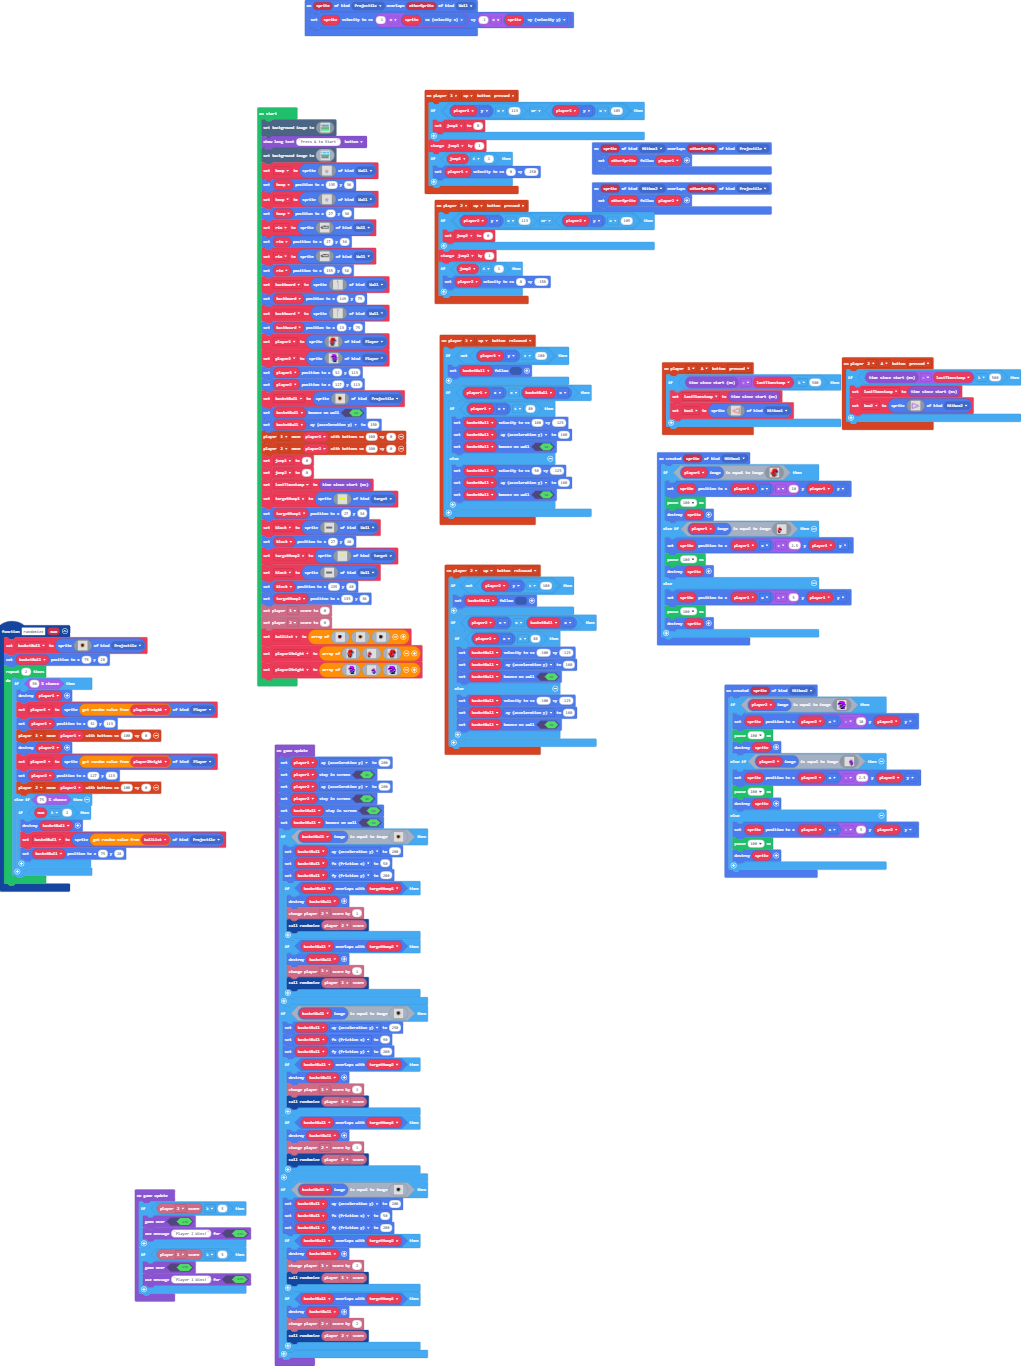
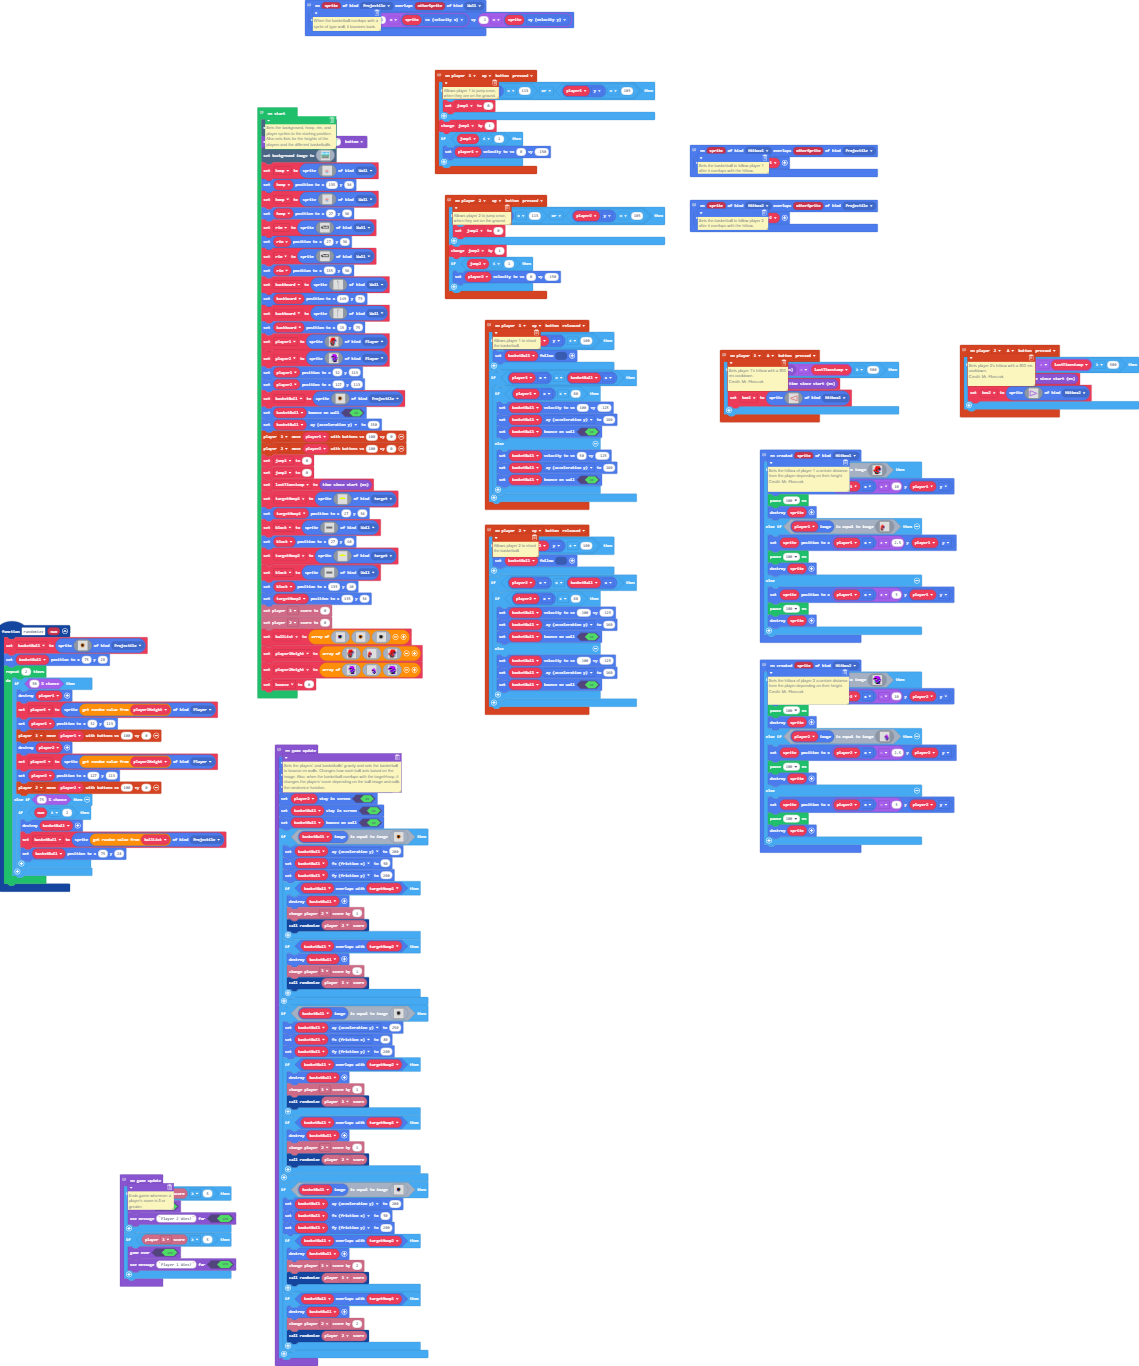
Update main.blocks, main.ts

Changed region(s): [[0.0, 0.0, 0.7894, 1.0], [0.6072, 0.246, 1.0, 0.6457]]

diff --git a/main.ts b/main.ts
@@ -4,6 +4,7 @@ namespace SpriteKind {
     export const Hitbox2 = SpriteKind.create()
     export const target = SpriteKind.create()
 }
+// Allows player 1 to jump once, when they are on the ground.
 controller.player1.onButtonEvent(ControllerButton.Up, ControllerButtonEvent.Pressed, function () {
     if (player1.y == 113 || player1.y == 105) {
         jump1 = 0
@@ -52,6 +53,7 @@ function randomize (num: number) {
         }
     }
 }
+// Allows player 1 to shoot the basketball.
 controller.player1.onButtonEvent(ControllerButton.Up, ControllerButtonEvent.Released, function () {
     if (!(player1.y > 100)) {
         basketBall.follow(null)
@@ -68,9 +70,12 @@ controller.player1.onButtonEvent(ControllerButton.Up, ControllerButtonEvent.Rele
         }
     }
 })
+// Sets the basketball to follow player 2 after it overlaps with the hitbox.
 sprites.onOverlap(SpriteKind.Hitbox2, SpriteKind.Projectile, function (sprite, otherSprite) {
     otherSprite.follow(player2)
 })
+// Sets player 2's hitbox with a 500 ms cooldown.
+// Credit: Mr. Florczak
 controller.player2.onButtonEvent(ControllerButton.A, ControllerButtonEvent.Pressed, function () {
     if (game.runtime() - lastTimestamp >= 500) {
         lastTimestamp = game.runtime()
@@ -94,6 +99,7 @@ controller.player2.onButtonEvent(ControllerButton.A, ControllerButtonEvent.Press
             `, SpriteKind.Hitbox2)
     }
 })
+// Allows player 2 to shoot the basketball.
 controller.player2.onButtonEvent(ControllerButton.Up, ControllerButtonEvent.Released, function () {
     if (!(player2.y > 100)) {
         basketBall.follow(null)
@@ -110,6 +116,7 @@ controller.player2.onButtonEvent(ControllerButton.Up, ControllerButtonEvent.Rele
         }
     }
 })
+// Allows player 2 to jump once, when they are on the ground.
 controller.player2.onButtonEvent(ControllerButton.Up, ControllerButtonEvent.Pressed, function () {
     if (player2.y == 113 || player2.y == 105) {
         jump2 = 0
@@ -119,9 +126,12 @@ controller.player2.onButtonEvent(ControllerButton.Up, ControllerButtonEvent.Pres
         player2.setVelocity(0, -150)
     }
 })
+// Sets the basketball to follow player 1 after it overlaps with the hitbox.
 sprites.onOverlap(SpriteKind.Hitbox1, SpriteKind.Projectile, function (sprite, otherSprite) {
     otherSprite.follow(player1)
 })
+// Sets player 1's hitbox with a 500 ms cooldown.
+// Credit: Mr. Florczak
 controller.player1.onButtonEvent(ControllerButton.A, ControllerButtonEvent.Pressed, function () {
     if (game.runtime() - lastTimestamp >= 500) {
         lastTimestamp = game.runtime()
@@ -145,9 +155,12 @@ controller.player1.onButtonEvent(ControllerButton.A, ControllerButtonEvent.Press
             `, SpriteKind.Hitbox1)
     }
 })
+// When the basketball overlaps with a sprite of type wall, it bounces back.
 sprites.onOverlap(SpriteKind.Projectile, SpriteKind.Wall, function (sprite, otherSprite) {
     sprite.setVelocity(-1 * sprite.vx, -1 * sprite.vy)
 })
+// Sets the hitbox of player 2 a certain distance  from the player depending on their height.
+// Credit: Mr. Florczak
 sprites.onCreated(SpriteKind.Hitbox2, function (sprite) {
     if (player2.image.equals(img`
         ........ccaaaaaaaaaaaaa.........
@@ -213,6 +226,8 @@ sprites.onCreated(SpriteKind.Hitbox2, function (sprite) {
         sprites.destroy(sprite)
     }
 })
+// Sets the hitbox of player 1 a certain distance  from the player depending on their height.
+// Credit: Mr. Florczak
 sprites.onCreated(SpriteKind.Hitbox1, function (sprite) {
     if (player1.image.equals(img`
         ............22222222222eee......
@@ -278,6 +293,7 @@ sprites.onCreated(SpriteKind.Hitbox1, function (sprite) {
         sprites.destroy(sprite)
     }
 })
+// Sets the background, hoop, rim, and player sprites to the starting position. Also sets lists for the heights of the players and the different basketballs.
 let box1: Sprite = null
 let box2: Sprite = null
 let player2Height: Image[] = []
@@ -1177,6 +1193,8 @@ player2Height = [img`
     ..........ffffffffcccccccccc....
     ..........ffffffffcccccccccc....
     `]
+let bounce = 0
+// Sets the players' and basketballs' gravity and sets the basketball to bounce on walls. Changes how each ball acts based on the image. Also, when the basketball overlaps with the targetHoop, it changes the players' score depending on the ball image and calls the randomize function.
 game.onUpdate(function () {
     player1.ay = 200
     player1.setStayInScreen(true)
@@ -1235,7 +1253,7 @@ game.onUpdate(function () {
         . . . . . . . . . . . . . . . . 
         `)) {
         basketBall.ay = 250
-        basketBall.fx = 90
+        basketBall.fx = 80
         basketBall.fy = 200
         if (basketBall.overlapsWith(targetHoop2)) {
             sprites.destroy(basketBall)
@@ -1281,6 +1299,7 @@ game.onUpdate(function () {
         }
     }
 })
+// Ends game whenever a player's score is 5 or greater.
 game.onUpdate(function () {
     if (info.player2.score() >= 5) {
         game.gameOver(true)
